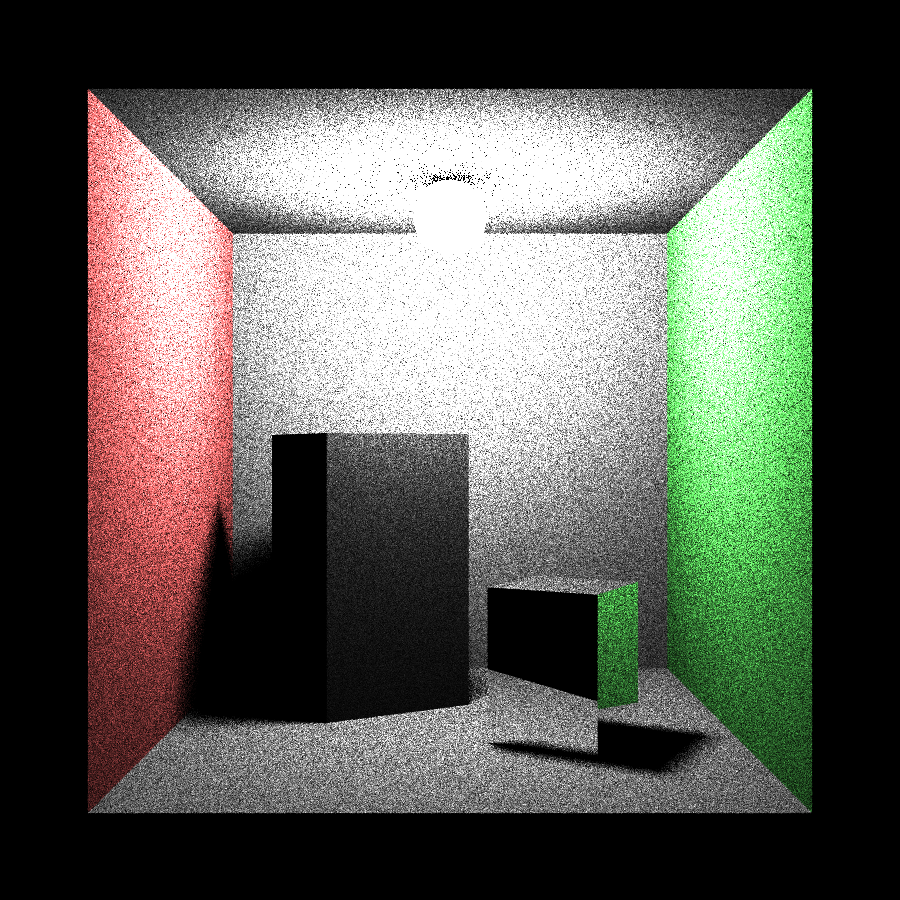
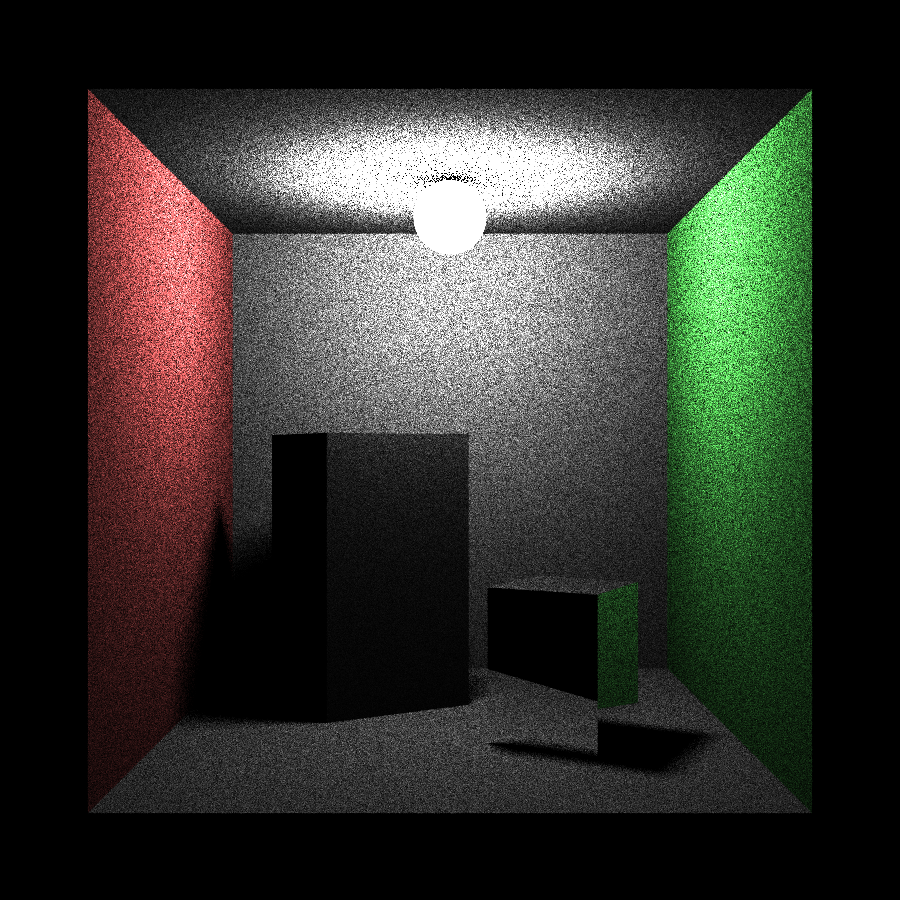
done lab1.2

diff --git a/src/FunctionLayer/Shape/Sphere.cpp b/src/FunctionLayer/Shape/Sphere.cpp
@@ -1,4 +1,5 @@
 #include "Sphere.h"
+
 #include <ResourceLayer/Factory.h>
 
 Sphere::Sphere(const Json &json) : Shape(json) {
@@ -17,8 +18,7 @@ bool Sphere::rayIntersectShape(Ray &ray, int *primID, float *u,
   float b = dot(o2c, direction);
   float c = o2c.length() * o2c.length() - radius * radius;
   float delta = b * b - c;
-  if (delta <= 0)
-    return false; // 不相交
+  if (delta <= 0) return false;  // 不相交
   float sqrtDelta = fm::sqrt(delta);
   float t1 = b - sqrtDelta;
   float t2 = b + sqrtDelta;
@@ -43,14 +43,20 @@ bool Sphere::rayIntersectShape(Ray &ray, int *primID, float *u,
       *u = (normal[0] > .0f) ? (PI * .5f) : (PI * 1.5f);
     } else {
       float tanPhi = normal[0] / normal[2];
-      *u = fm::atan(tanPhi); // u in [-.5f * PI, .5f * PI]
-      if (normal[2] < .0f)
-        *u += PI;
+      *u = fm::atan(tanPhi);  // u in [-.5f * PI, .5f * PI]
+      if (normal[2] < .0f) *u += PI;
     }
   }
   return hit;
 }
 
+/**
+ * @param distance
+ * @param primID
+ * @param u phi.
+ * @param v theta.
+ * @param intersection
+ */
 void Sphere::fillIntersection(float distance, int primID, float u, float v,
                               Intersection *intersection) const {
   // u->phi, v->theta
@@ -81,4 +87,29 @@ void Sphere::fillIntersection(float distance, int primID, float u, float v,
   intersection->bitangent = bitangent;
 }
 
+void Sphere::uniformSampleOnSurface(Vector2f sample, Intersection *intersection,
+                                    float *pdf) const {
+  // TODO finish this
+  /*
+    c = 1 / 4pi
+    pdf(t, p) = c sint
+    pdf(t) = c sint * 2pi = 0.5 sint
+    pdf(p) = [0, pi] c sint dt = -c [0, pi] dcost = 2c = 1 / 2pi
+
+    cdf(t) = 0.5 [0, x] sint dt = -0.5 [0, x] dcost = -0.5 (cosx - 1) = 0.5 (1
+    - cosx) cdf(p) = x / 2pi
+
+    theta = acos(1 - 2e1)
+    phi = 2pi * e2
+
+    x = sint cosp
+    y = sint sinp
+    z = cost
+  */
+  float theta = fm::acos(1 - 2 * sample.x());
+  float phi = 2 * fm::pi_f * sample.y();
+  if (intersection) fillIntersection(0, 0, phi, theta, intersection);
+  if (pdf) *pdf = 1 / (4 * fm::pi_f);
+}
+float Sphere::getArea() const { return 4 * fm::pi_f * radius * radius; }
 REGISTER_CLASS(Sphere, "sphere")

diff --git a/src/FunctionLayer/Shape/Sphere.h b/src/FunctionLayer/Shape/Sphere.h
@@ -1,12 +1,13 @@
 #pragma once
+#include <math.h>
+
 #include "CoreLayer/Math/Constant.h"
 #include "CoreLayer/Math/Geometry.h"
 #include "FastMath/FastMath.h"
 #include "Shape.h"
-#include <math.h>
 // TODO 当前只有Transform中的translate对sphere生效
 class Sphere : public Shape {
-public:
+ public:
   Sphere() = delete;
 
   Sphere(const Json &json);
@@ -18,40 +19,10 @@ public:
                                 Intersection *intersection) const override;
   virtual void uniformSampleOnSurface(Vector2f sample,
                                       Intersection *intersection,
-                                      float *pdf) const override {
-    // TODO finish this
-    /*
-      c = 1 / 4pi
-      pdf(t, p) = c sint
-      pdf(t) = c sint * 2pi = 0.5 sint
-      pdf(p) = [0, pi] c sint dt = -c [0, pi] dcost = 2c = 1 / 2pi
+                                      float *pdf) const override;
+  float getArea() const override;
 
-      cdf(t) = 0.5 [0, x] sint dt = -0.5 [0, x] dcost = -0.5 (cosx - 1) = 0.5 (1
-      - cosx) cdf(p) = x / 2pi
-
-      theta = acos(1 - 2e1)
-      phi = 2pi * e2
-
-      x = sint cosp
-      y = sint sinp
-      z = cost
-    */
-    float theta = fm::acos(1 - 2 * sample.x());
-    float phi = 2 * fm::pi_f * sample.y();
-    if (intersection) {
-      float x = fm::sin(theta) * fm::cos(phi);
-      float y = fm::sin(theta) * fm::sin(phi);
-      float z = fm::cos(theta);
-
-      intersection->position = center + radius * Vector3f{x, y, z};
-      intersection->normal = Vector3f{x, y, z};
-    }
-    if (pdf)
-      *pdf = 1 / (4 * fm::pi_f);
-  }
-  float getArea() const override { return 4 * fm::pi_f * radius * radius; }
-
-public:
+ public:
   Point3f center;
   float radius;
 };
